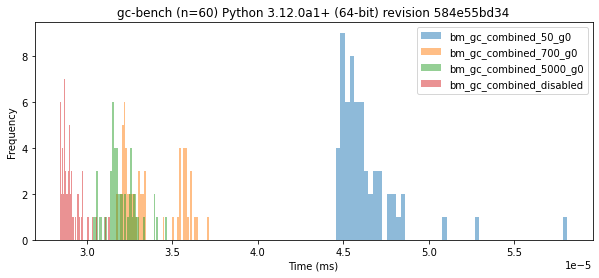
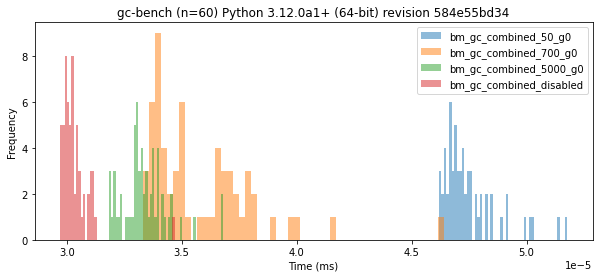
Update the instructions and latest graph

diff --git a/bm_gc_combined.py b/bm_gc_combined.py
@@ -6,7 +6,7 @@ import pyperf
 SIG_DICT = 0xd1c7 # Create new dictionary
 SIG_LIST = 0x7157 # Create new list
 
-def benchmark(depth=1000, max_width=10) -> float:
+def benchmark(depth=1000) -> float:
     t0 = pyperf.perf_counter()
     # Build tree
     root = {}
@@ -14,12 +14,13 @@ def benchmark(depth=1000, max_width=10) -> float:
     level = 0
 
     # Cycle through this list of values for each item in the tree
-    values = cycle([0., 0, SIG_LIST, SIG_DICT, None, ()])
+    POSSIBLE_VALUES = [0., 0, SIG_LIST, SIG_DICT, None, ()]
+    values = cycle(POSSIBLE_VALUES)
     # Keep a master unique key for each item in the tree
     index = count()
 
     while level < depth:
-        for _ in range(max_width):
+        for _ in range(len(POSSIBLE_VALUES)):
             new_value = next(values)
             new_key = next(index)
             if new_value is SIG_LIST:
@@ -47,7 +48,6 @@ def benchmark(depth=1000, max_width=10) -> float:
             all_items.append((key, value))
         level += 1
 
-    # pprint(root, depth=5)
 
     # Traverse and add the all_items to every list in the tree
     current = root
@@ -83,11 +83,18 @@ def benchmark(depth=1000, max_width=10) -> float:
     while level < depth:
         for key, value in current.items():
             if isinstance(value, dict):
-                current = value
-            else:
                 del current[key]
+                current = value
                 break
         level += 1
+    # pprint(root, depth=5)
+
+    # Clear the all items list
+    all_items.clear()
+
+    # Now delete the root
+    del root
+
     return pyperf.perf_counter() - t0
 
 if __name__ == "__main__":

diff --git a/README.md b/README.md
@@ -33,31 +33,37 @@ Stage 1 will create a tree using the builtin dict structure.
 }
 ```
 
-Stage 2 will go through and for each list in the tree, add the parent dictionary as an item
+Stage 2 will go through and for each item in the tree, add it to a list using `(k, v)` as the value.
+
+Stage 3 will traverse the tree and add the `all_items` list to every list in the tree (creating a recursive reference):
 
 ```json
 {0: 0.0,
  1: 0,
- 2: [<Recursion on dict with id=4354355376>],
- 3: {4: None,
-     5: (),
-     6: 0.0,
-     7: 0,
-     8: [<Recursion on dict with id=4354355568>],
-     9: {10: None,
-         11: (),
-         12: 0.0,
-         13: 0,
-         14: [<Recursion on dict with id=4354357968>],
-         15: {16: None,
-              17: (),
-              18: 0.0,
-              19: 0,
-              20: [{...}],
-              21: {22: None, 23: (), 24: 0.0, 25: 0, 26: [...], 27: {...}}}}}}
+ 2: [[(0, 0.0),
+      (1, 0),
+      (2, <Recursion on list with id=4466297424>),
+      (3, {4: None, 5: (), 6: 0.0, 7: 0, 8: [...], 9: {...}}),
+      (4, None),
+      (5, ()),
+      (6, 0.0),
+      (7, 0),
+      (8, [[...]]),
+      (9, {10: None, 11: (), 12: 0.0, 13: 0, 14: [...], 15: {...}}),
+      (10, None),
+      (11, ()),
+      (12, 0.0),
+      (13, 0),
+      (14, [[...]]),
+      (15, {16: None, 17: (), 18: 0.0, 19: 0, 20: [...], 21: {...}}),
+      (16, None),
+      (17, ()),
+      (18, 0.0),
+      (19, 0),
+      (20, [[...]]),
 ```
 
-Stage 3 will then go through and reverse the process of stage 2:
+Stage 4 will then go through and reverse the process of stage 3:
 
 ```json
 {0: 0.0,
@@ -80,3 +86,7 @@ Stage 3 will then go through and reverse the process of stage 2:
               20: [],
               21: {22: None, 23: (), 24: 0.0, 25: 0, 26: [], 27: {...}}}}}}
 ```
+
+Stage 5 will go traverse through the tree and delete keys that have dictionaries as values.
+
+Lastly, `all_items` is cleared and then `root` is deleted.
